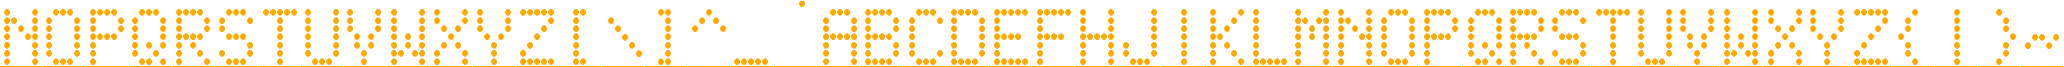
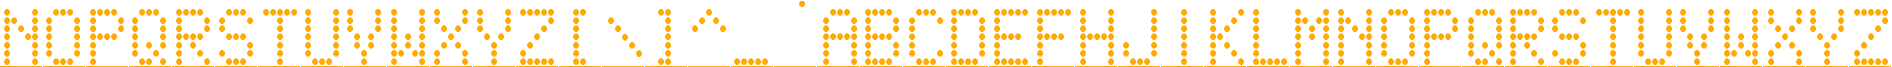
Reduced scoreboard font below MAX_TEXTURE_SIZE.

diff --git a/src/Football.js b/src/Football.js
@@ -36,7 +36,8 @@ fb.GameClass = new joe.ClassEx({
                                                         this);
 
     this.boardFont = joe.Resources.loader.loadBitmapFont(["img/font_scoreboard_80_01.png",
-                                                          "img/font_scoreboard_80_02.png"],
+                                                          "img/font_scoreboard_80_02.png",
+                                                          "img/font_scoreboard_80_03.png"],
                                                           fb.onResourceLoaded,
                                                           fb.onResourceLoadFailed,
                                                           this);    
